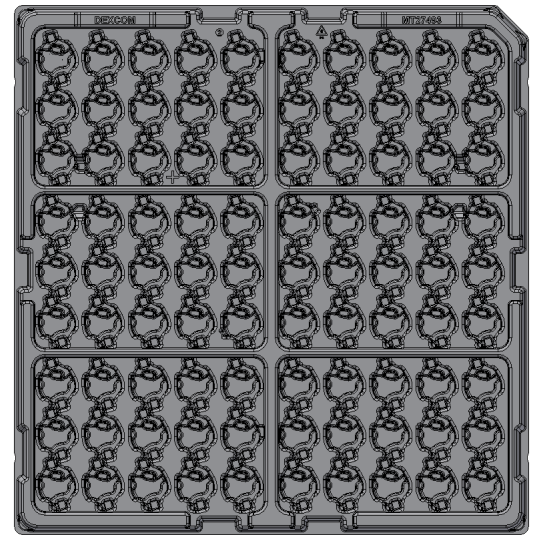
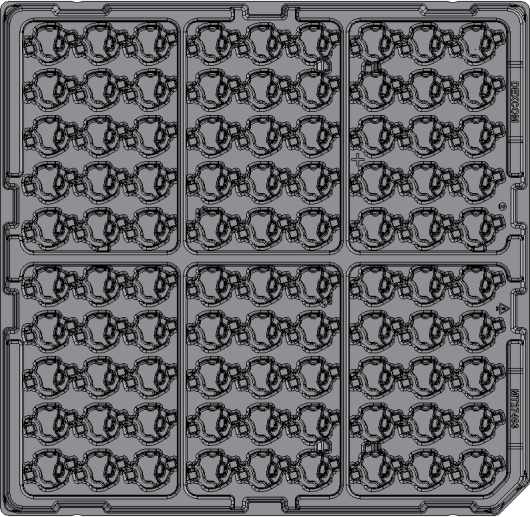
Add S1PCBA.png

diff --git a/PentagonHMI/Dexcom_Modules/ucTrayMap.xaml b/PentagonHMI/Dexcom_Modules/ucTrayMap.xaml
@@ -204,14 +204,18 @@
                         <Label Content="PCBA Slot Tracking Tray" Grid.ColumnSpan="2" Style="{DynamicResource styTopPenalBlue}" Height="30" FontSize="18"
                                 Padding="30,2,2,0" />
                         <Grid Name="pcba_SlotTrayGrid" Grid.Row="1">
-                            <UniformGrid Name="pcba_SlotTray" HorizontalAlignment="Center" VerticalAlignment="Center" Margin="25 120 0 0" FlowDirection="RightToLeft">
+                            <UniformGrid Name="pcba_SlotTray" HorizontalAlignment="Center" VerticalAlignment="Center" Margin="20 80 0 0"
+                                    FlowDirection="RightToLeft">
                                 <UniformGrid.Resources>
                                     <Style TargetType="Button">
-                                        <Setter Property="Margin" Value="5" />
-                                        <Setter Property="Height" Value="30" />
-                                        <Setter Property="Width" Value="30" />
+                                        <Setter Property="Margin" Value="12.5" />
+                                        <Setter Property="Height" Value="25" />
+                                        <Setter Property="Width" Value="25" />
                                     </Style>
                                 </UniformGrid.Resources>
+                                <UniformGrid.Background>
+                                    <ImageBrush ImageSource="/HMI;component/Images/TrayMap/S1PCBA.png"/>
+                                </UniformGrid.Background>
                             </UniformGrid>
                         </Grid>
                         <Grid Grid.Column="2" Grid.Row="1">
@@ -303,17 +307,21 @@
                         <Grid Grid.Column="2" Grid.Row="2">
                             <StackPanel HorizontalAlignment="Center" VerticalAlignment="Center">
 
-                                --><!--<Button Click="Reinspect_Click" Tag="battery" Content="Reinspect Tray" FontSize="15" Margin="5" Padding="10" />--><!--
+                                -->
+                <!--<Button Click="Reinspect_Click" Tag="battery" Content="Reinspect Tray" FontSize="15" Margin="5" Padding="10" />-->
+                <!--
 
                                 <Button Name="BatterySlotButton" Click="ChangeTray_Click" Tag="HMI_Battery_ReqChangeTray" Content="Change Tray" FontSize="15"
                                         Margin="5" Padding="10" />
 
-                                --><!--<TextBlock Text="Purge Right Rack" FontSize="15" Margin="5" TextAlignment="Center" Style="{StaticResource Default}" />
+                                -->
+                <!--<TextBlock Text="Purge Right Rack" FontSize="15" Margin="5" TextAlignment="Center" Style="{StaticResource Default}" />
                                 <StackPanel Orientation="Horizontal" HorizontalAlignment="Center">
                                     <TextBlock FontSize="15" Text="Off" VerticalAlignment="Center" Padding="7 5" Style="{StaticResource Default}" />
                                     <ToggleButton Width="75" Height="20" DataContextChanged="Purge_Click" Tag="battery" />
                                     <TextBlock FontSize="15" Text="On" VerticalAlignment="Center" Padding="7 5" Style="{StaticResource Default}" />
-                                </StackPanel>--><!--
+                                </StackPanel>-->
+                <!--
                             </StackPanel>
                         </Grid>
                     </Grid>
